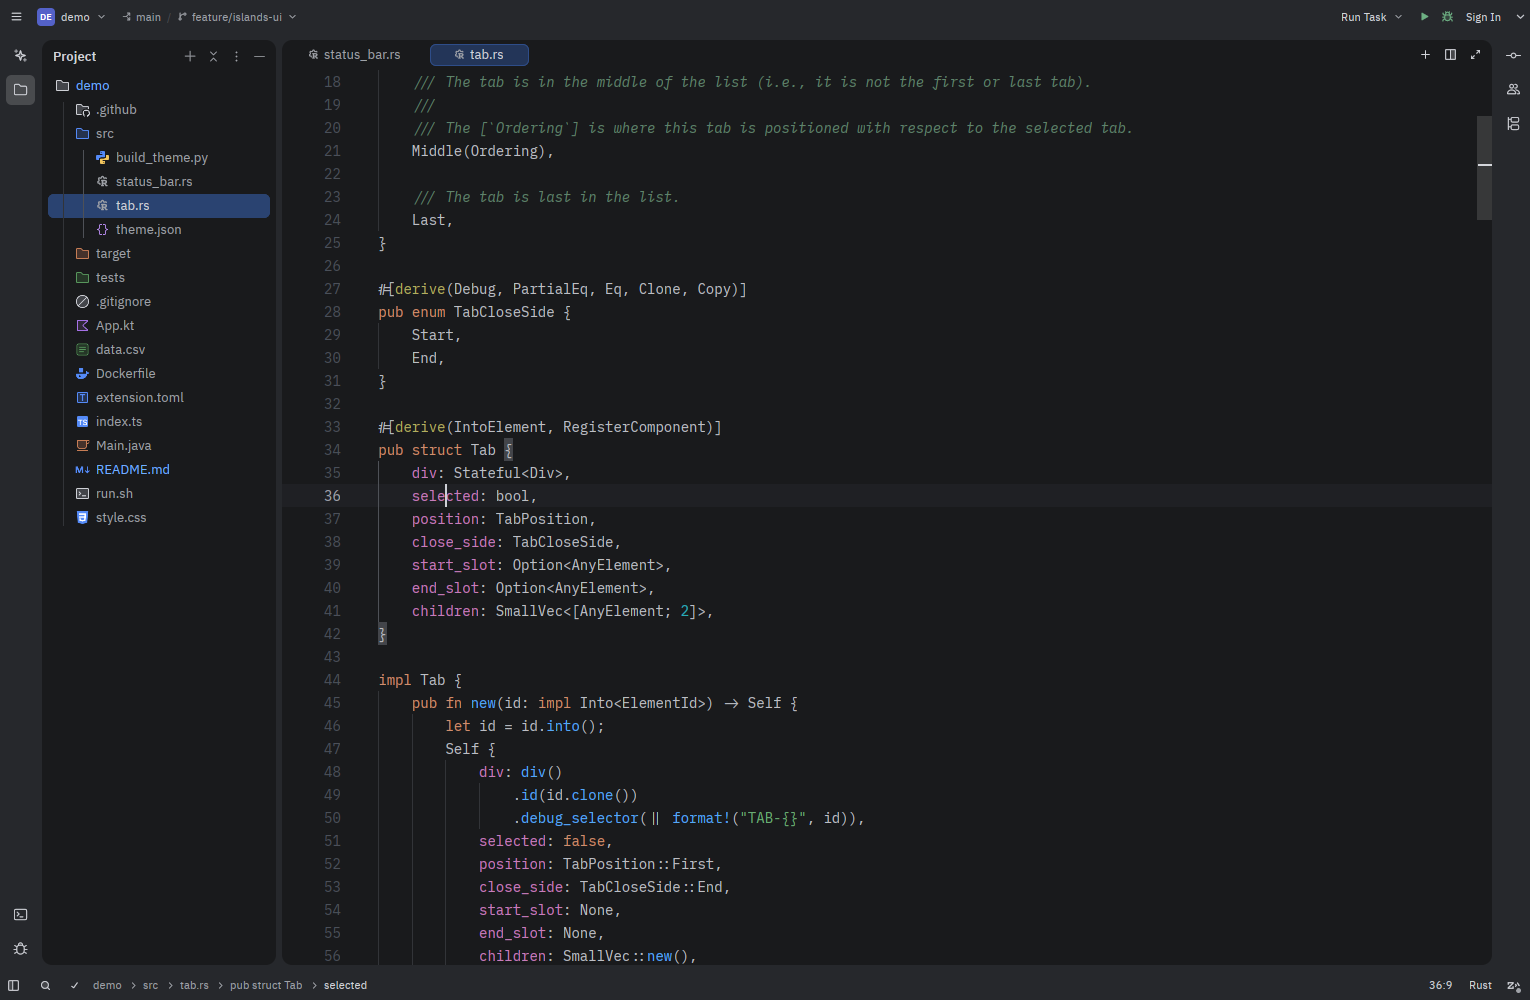
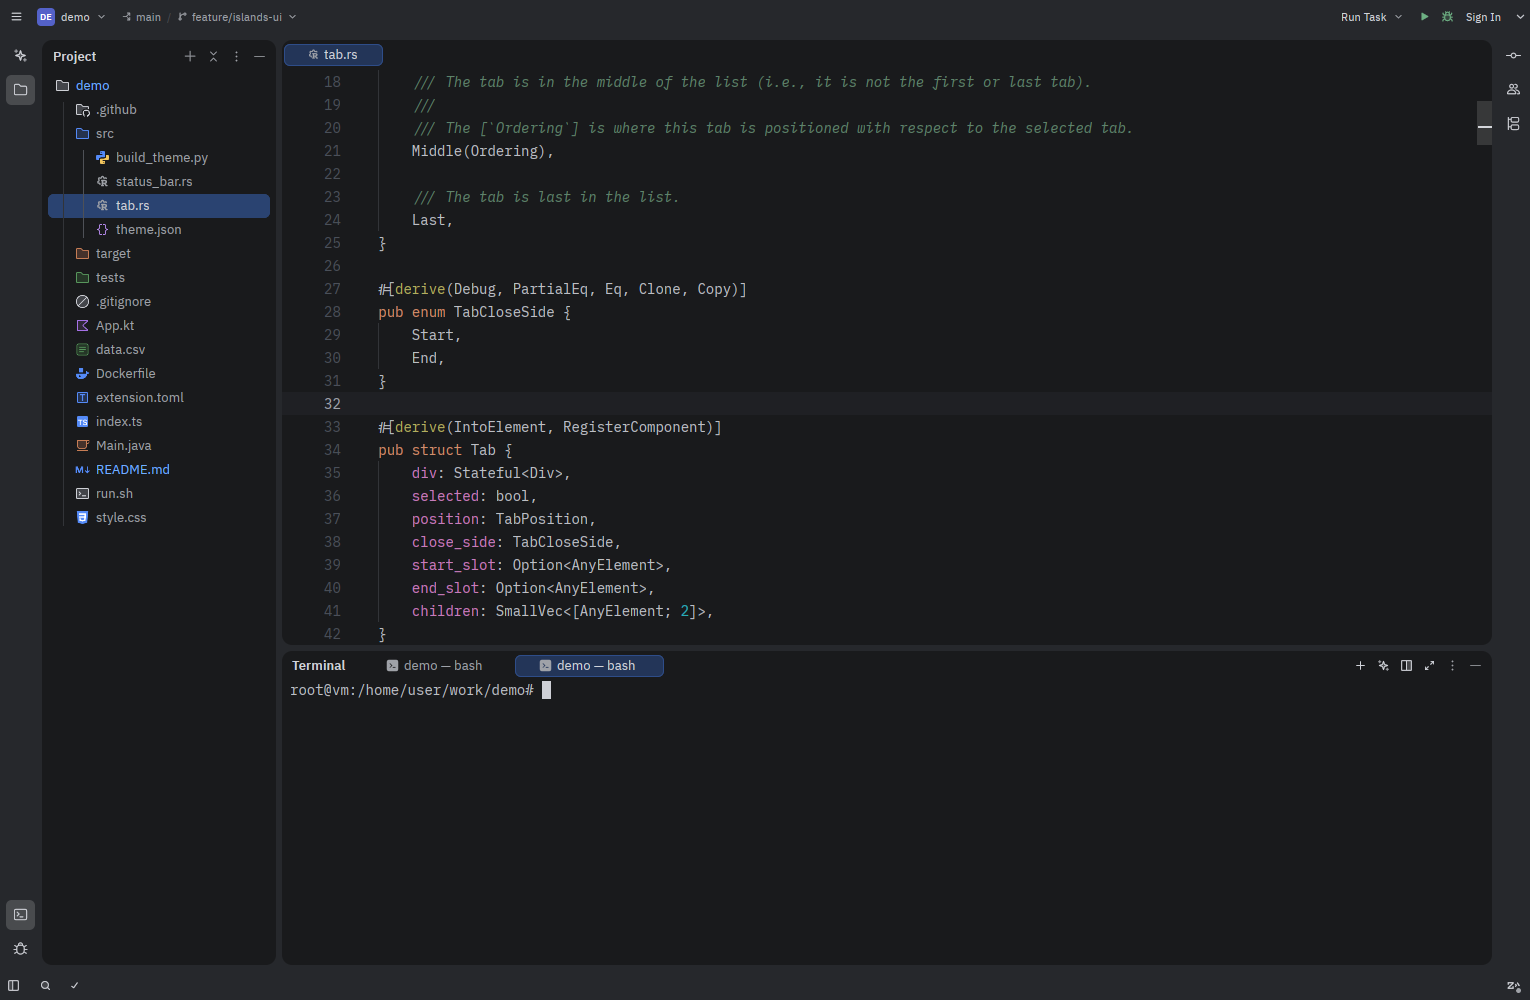
Mention the terminal header and show it in the screenshot
Claude-Session: https://claude.ai/code/session_01BnQ6HuAUheDSWa9N9Mwti8

diff --git a/README.md b/README.md
@@ -65,7 +65,8 @@ the editor and docks as rounded islands, editor tabs as pills, and project
 panel rows as inset rounded highlights, and moves panel toggles into IDEA-style
 tool window stripes along the window edges. The title bar gets IDEA-style project,
 branch and run widgets, and each docked panel gets a header row with its name,
-its actions, an options menu and a hide button. Stripes and headers use IDEA's
+its actions, an options menu and a hide button (the terminal's tabs share that
+row, as in IDEA). Stripes and headers use IDEA's
 tool window icons, and the status bar shows IDEA's navigation path
 (project › folder › file › symbol). Pickers, menus and popups get the islands
 corner radius and rounded selection rows. Enable it with:
